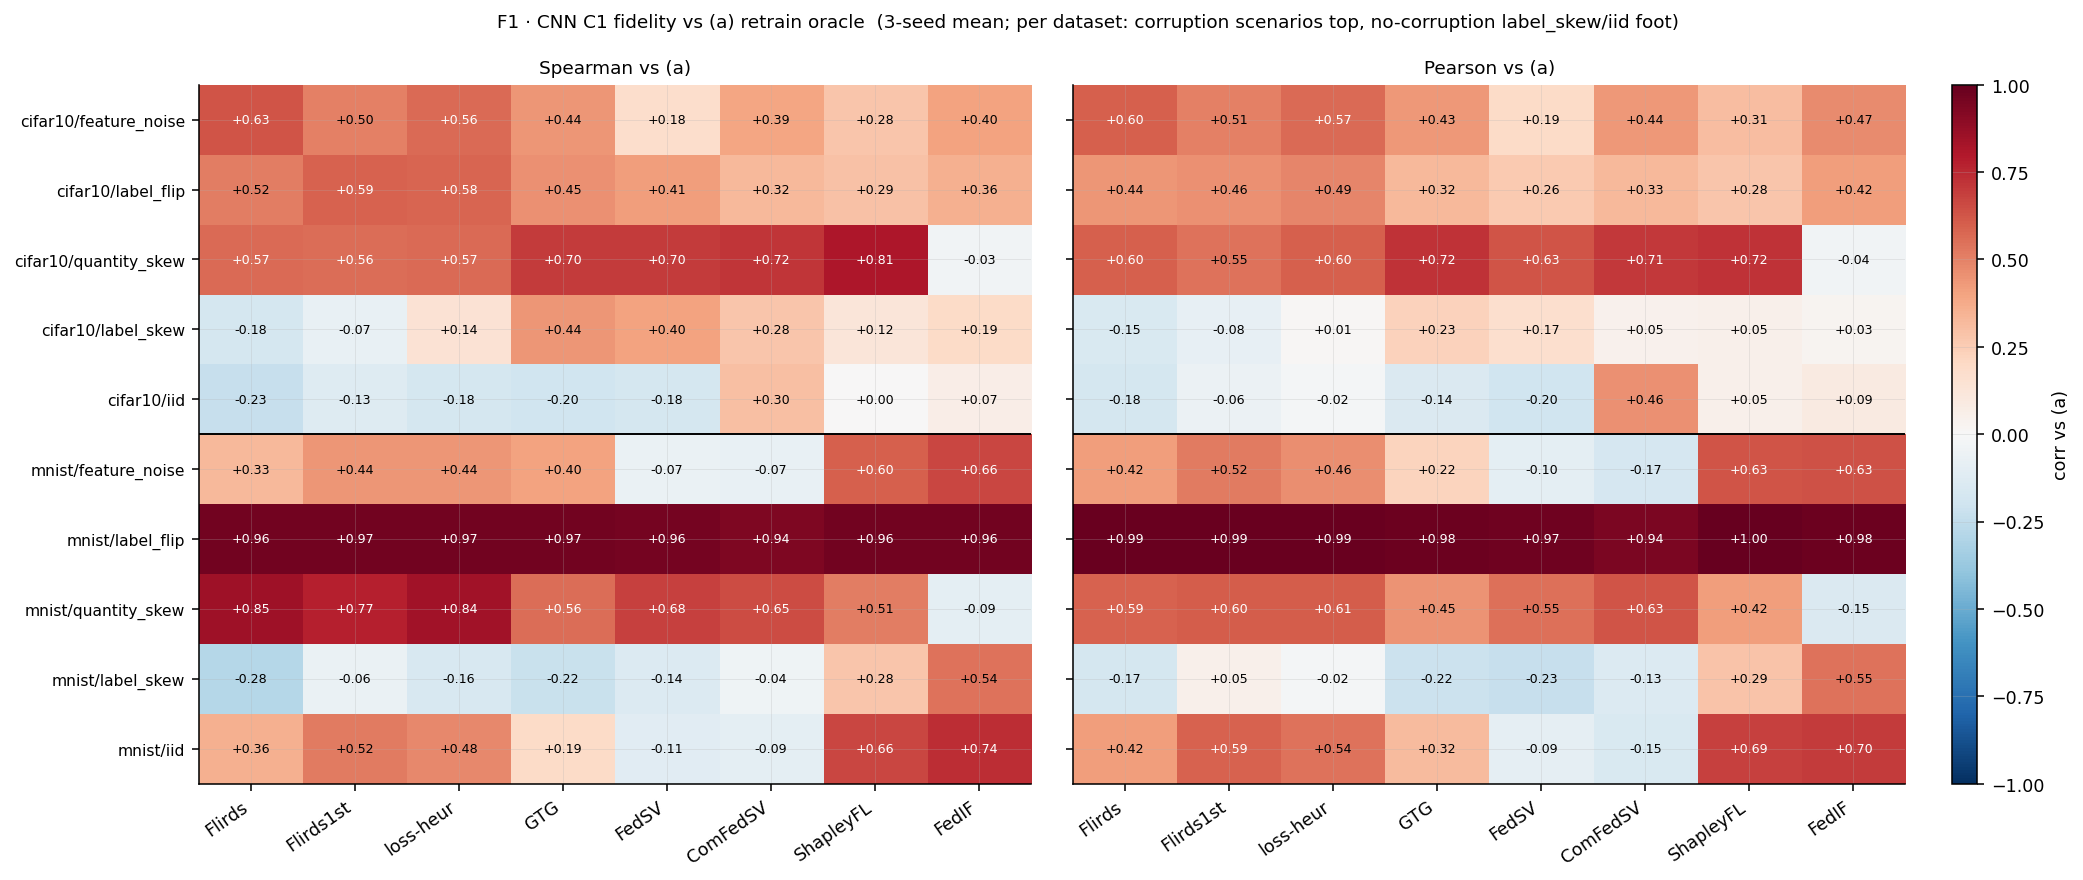
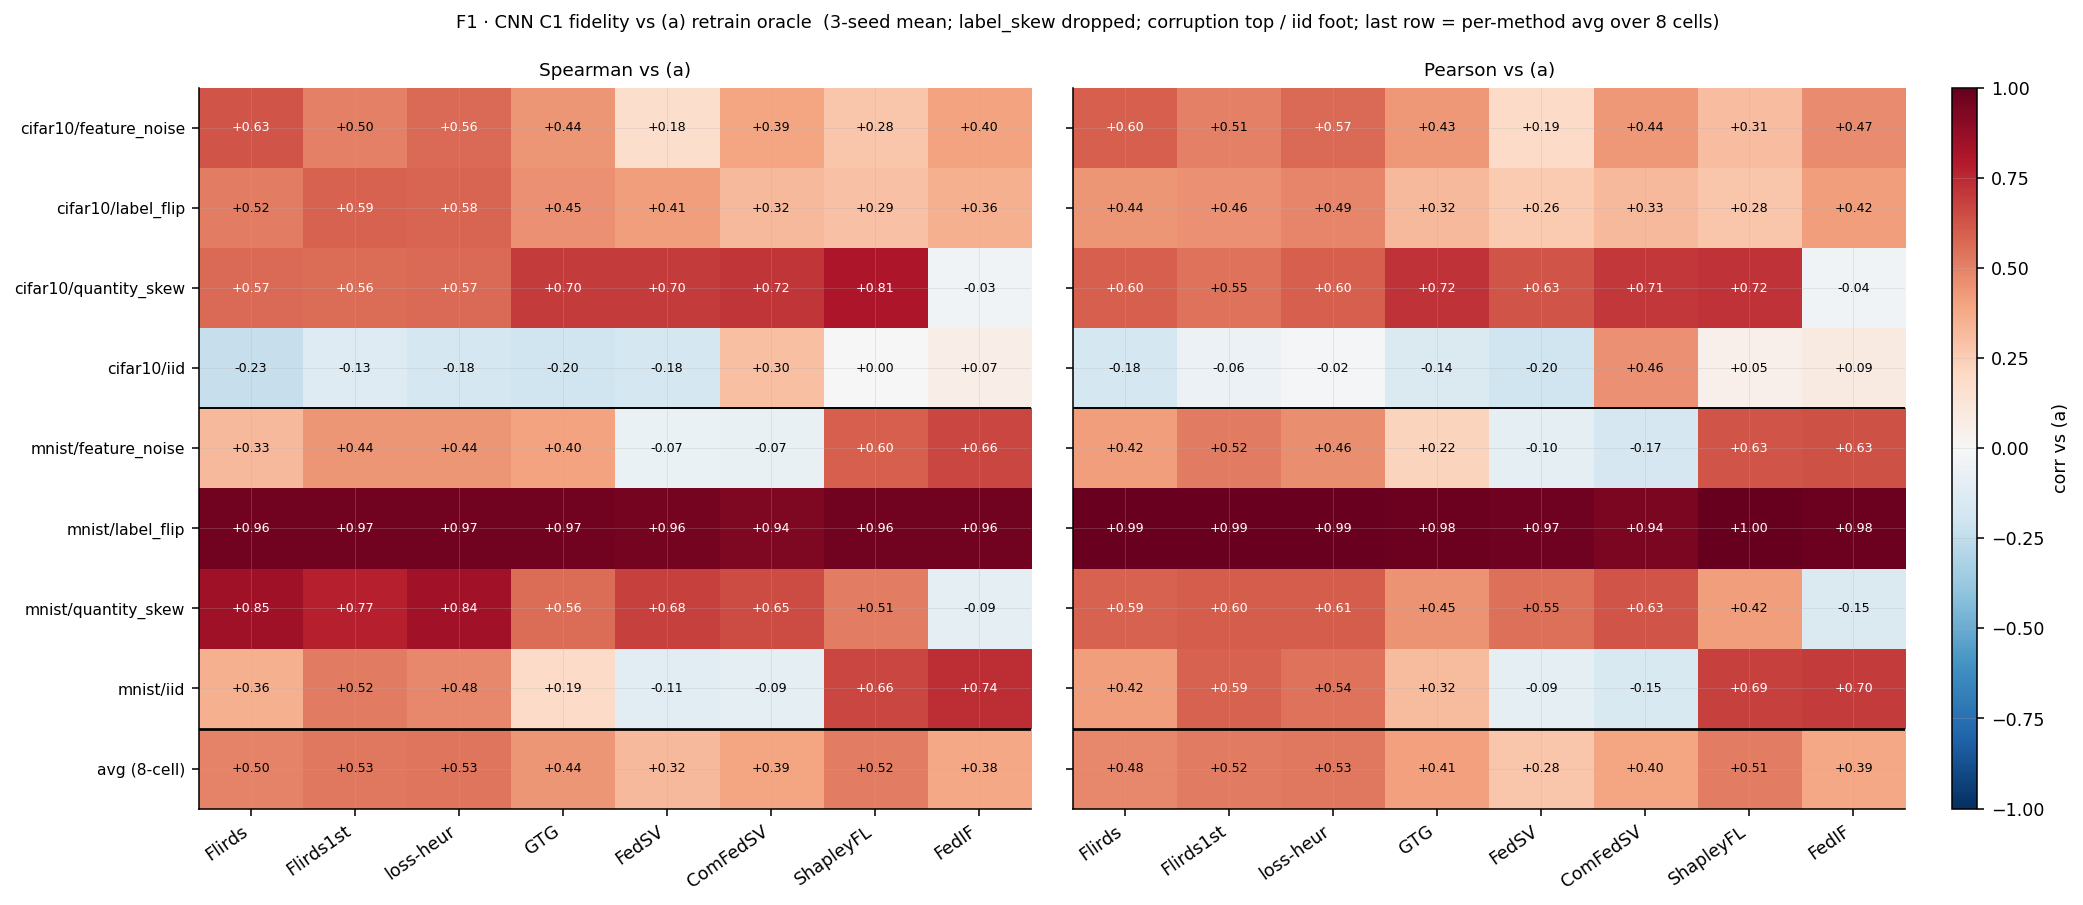
docs(paper): T2 §5.2 CNN C1 vs(a) — label_skew 제거 + 방법별 평균 행 추가
Yonghee 지시:
- label_skew 2행(cifar10·mnist) 삭제 → 8칸(cifar10·mnist × {feature_noise,label_flip,
  quantity_skew,iid}). 표·F1 figure 동일 적용.
- 방법별 **평균 행** 추가(Spearman·Pearson 각 표): 평균(8칸) + (참고) iid 제외 6칸.
  ⚠ iid(오염0) 희석 주의 명시 — 8칸 평균은 same-game이 깎여 renorm과 붙어 보이나(Flirds Sp
  +0.50 ≈ ShapleyFL +0.52), iid 제외 6칸이 실제 서열(same-game 0.64~0.66 최상).
- F1 = 8칸 + `avg (8-cell)` 행(분리선) 2-panel 재생성.

값은 track_c/fidelity.csv에서 label_skew 제외 후 재계산·검증. runs/ 읽기전용·paper/ 무수정·로컬 커밋만.

diff --git a/research-wiki/survey/flirds-paper-results-overview-figs/make_figures.py b/research-wiki/survey/flirds-paper-results-overview-figs/make_figures.py
@@ -85,8 +85,9 @@ def f1():
         print("  [skip] F1: missing track_c/fidelity.csv"); return False
     df = pd.read_csv(csv)
     df = df[~df["method"].isin(EXCLUDE)]
-    # per dataset block: corruption scenarios first (signal), no-corruption last
-    scen_order = ["feature_noise", "label_flip", "quantity_skew", "label_skew", "iid"]
+    df = df[df["scenario"] != "label_skew"]              # dropped per Yonghee 07-23
+    # per dataset block: corruption scenarios first (signal), iid control last
+    scen_order = ["feature_noise", "label_flip", "quantity_skew", "iid"]
     rows = ([("cifar10", s) for s in scen_order] + [("mnist", s) for s in scen_order])
     M = [m for m in M8 if m in df["method"].unique()]
 
@@ -99,29 +100,32 @@ def f1():
                     g[i, j] = piv.loc[(d, s, m)]
                 except KeyError:
                     pass
-        return g
+        avg = np.nanmean(g, axis=0, keepdims=True)        # per-method mean over 8 cells
+        return np.vstack([g, avg])
 
-    fig, axes = plt.subplots(1, 2, figsize=(14.6, 6.4), sharey=True)
+    ylabels = [f"{d}/{s}" for d, s in rows] + ["avg (8-cell)"]
+    fig, axes = plt.subplots(1, 2, figsize=(14.6, 6.6), sharey=True)
     im = None
     for ax, (col, name) in zip(axes, [("spearman_a", "Spearman"), ("pearson_a", "Pearson")]):
         grid = build(col)
         im = ax.imshow(grid, cmap="RdBu_r", vmin=-1, vmax=1, aspect="auto")
         ax.set_xticks(range(len(M))); ax.set_xticklabels(M, rotation=35, ha="right")
         ax.axhline(len(scen_order) - 0.5, color="k", lw=1.0)   # cifar10 | mnist split
-        for i in range(len(rows)):
+        ax.axhline(len(rows) - 0.5, color="k", lw=1.4)         # data | avg split
+        for i in range(grid.shape[0]):
             for j in range(len(M)):
                 v = grid[i, j]
                 if not np.isnan(v):
                     ax.text(j, i, f"{v:+.2f}", ha="center", va="center", fontsize=6.5,
                             color="white" if abs(v) > 0.55 else "black")
         ax.set_title(f"{name} vs (a)", fontsize=9.5)
-    axes[0].set_yticks(range(len(rows)))
-    axes[0].set_yticklabels([f"{d}/{s}" for d, s in rows], fontsize=8)
+    axes[0].set_yticks(range(len(ylabels)))
+    axes[0].set_yticklabels(ylabels, fontsize=8)
     fig.subplots_adjust(left=0.065, right=0.9, top=0.9, bottom=0.12, wspace=0.05)
     cax = fig.add_axes([0.923, 0.12, 0.012, 0.78])
     fig.colorbar(im, cax=cax, label="corr vs (a)")
-    fig.suptitle("F1 · CNN C1 fidelity vs (a) retrain oracle  (3-seed mean; per dataset: "
-                 "corruption scenarios top, no-corruption label_skew/iid foot)", fontsize=9.5)
+    fig.suptitle("F1 · CNN C1 fidelity vs (a) retrain oracle  (3-seed mean; label_skew dropped; "
+                 "corruption top / iid foot; last row = per-method avg over 8 cells)", fontsize=9.2)
     return save(fig, "f1_cnn_c1_vs_a_heatmap.png", tight=False)
 
 

diff --git a/research-wiki/survey/flirds-paper-results-overview.md b/research-wiki/survey/flirds-paper-results-overview.md
@@ -108,11 +108,11 @@ tags: [flirds, paper, results, dashboard]
 **LLM gsm5 (신설, 주표) — dual (a)+(b), clean·noisy** ⬚ · **LLM silo5 (a)-leg (비IID 보조)** ⬚
 - 채움 = `runs/track_d/rundirs/gsm5_*`(L8 신설) · `runs/track_d/rundirs/1B_silo5_*_aleg`(L8). gsm5 = 주무대와 데이터·위협·오염비율·val·하이퍼 동일, N=5 full·R=30만 축소("라운드-cohort 축소판").
 
-**CNN C1 시나리오별 vs (a) retrain oracle** ● (3-seed 평균; 전 10칸 = cifar10·mnist × 5 시나리오, 전 8 방법)
+**CNN C1 시나리오별 vs (a) retrain oracle** ● (3-seed 평균; 8칸 = cifar10·mnist × 4 시나리오 · 전 8 방법 · **label_skew 제외**)
 
-> **오염 구조 (칸마다 신호가 다른 이유 + 데이터셋별 오염군)**: C1의 오염은 **클라 index 사다리** `_pair_ladder`(pair p → 5p%, N=10 → **0/0/5/5/10/10/15/15/20/20%**)이고, **`label_flip`·`feature_noise` 두 시나리오에만** 적용 = strmain류 **per-client 강도 변조**(클라마다 오염 dose가 다름). **`iid`·`label_skew`·`quantity_skew`는 오염 0**(순수 파티션 이질성)이라 vs (a) 신호가 약한 **신호-부재 칸**. ⚠ **오염 사다리는 데이터셋·seed 무관 동일**(client index로만 결정) → cifar10↔mnist의 값 차이는 *오염군이 달라서가 아니라* 과제 난이도 차이다(아래 읽기 iii).
+> **오염 구조 (칸마다 신호가 다른 이유 + 데이터셋별 오염군)**: C1의 오염은 **클라 index 사다리** `_pair_ladder`(pair p → 5p%, N=10 → **0/0/5/5/10/10/15/15/20/20%**)로 **`label_flip`·`feature_noise`에만** 적용 = strmain류 **per-client 강도 변조**(클라마다 dose가 다름). `quantity_skew`=크기 이질성, **`iid`=오염0 신호-부재 대조군**. *(label_skew는 오염0 + (a)-게임 축퇴로 정보량 낮아 07-23 삭제.)* ⚠ **오염 사다리는 데이터셋·seed 무관 동일**(client index로만 결정) → cifar10↔mnist 값 차이는 *오염군이 달라서가 아니라* 과제 난이도(아래 읽기 iii).
 
-**Spearman vs (a)** (전 10칸; 신호-강 위 / 신호-부재 아래)
+**Spearman vs (a)** (신호-강 위 / iid 아래 / 방법별 평균)
 
 | dataset/scenario | Flirds | Flirds-1st | loss-heur | GTG | FedSV | ComFedSV | ShapleyFL | FedIF |
 |---|---|---|---|---|---|---|---|---|
@@ -122,12 +122,12 @@ tags: [flirds, paper, results, dashboard]
 | mnist / feature_noise | +0.33 | +0.44 | +0.44 | +0.40 | -0.07 | -0.07 | +0.60 | +0.66 |
 | mnist / label_flip | **+0.96** | +0.97 | +0.97 | +0.97 | +0.96 | +0.94 | +0.96 | +0.96 |
 | mnist / quantity_skew | **+0.85** | +0.77 | +0.84 | +0.56 | +0.68 | +0.65 | +0.51 | -0.09 |
-| cifar10 / label_skew *(오염0)* | -0.18 | -0.07 | +0.14 | +0.44 | +0.40 | +0.28 | +0.12 | +0.19 |
 | cifar10 / iid *(오염0)* | -0.23 | -0.13 | -0.18 | -0.20 | -0.18 | +0.30 | +0.00 | +0.07 |
-| mnist / label_skew *(오염0)* | -0.28 | -0.06 | -0.16 | -0.22 | -0.14 | -0.04 | +0.28 | +0.54 |
 | mnist / iid *(오염0)* | +0.36 | +0.52 | +0.48 | +0.19 | -0.11 | -0.09 | +0.66 | +0.74 |
+| **평균 (8칸)** | **+0.50** | **+0.53** | **+0.53** | **+0.44** | **+0.32** | **+0.39** | **+0.52** | **+0.38** |
+| _평균 (iid 제외 6칸)_ | _+0.64_ | _+0.64_ | _+0.66_ | _+0.59_ | _+0.48_ | _+0.49_ | _+0.58_ | _+0.38_ |
 
-**Pearson vs (a)** (전 10칸; 같은 순서)
+**Pearson vs (a)** (같은 순서)
 
 | dataset/scenario | Flirds | Flirds-1st | loss-heur | GTG | FedSV | ComFedSV | ShapleyFL | FedIF |
 |---|---|---|---|---|---|---|---|---|
@@ -137,13 +137,13 @@ tags: [flirds, paper, results, dashboard]
 | mnist / feature_noise | +0.42 | +0.52 | +0.46 | +0.22 | -0.10 | -0.17 | +0.63 | +0.63 |
 | mnist / label_flip | +0.99 | +0.99 | +0.99 | +0.98 | +0.97 | +0.94 | **+1.00** | +0.98 |
 | mnist / quantity_skew | +0.59 | +0.60 | +0.61 | +0.45 | +0.55 | +0.63 | +0.42 | -0.15 |
-| cifar10 / label_skew *(오염0)* | -0.15 | -0.08 | +0.01 | +0.23 | +0.17 | +0.05 | +0.05 | +0.03 |
 | cifar10 / iid *(오염0)* | -0.18 | -0.06 | -0.02 | -0.14 | -0.20 | +0.46 | +0.05 | +0.09 |
-| mnist / label_skew *(오염0)* | -0.17 | +0.05 | -0.02 | -0.22 | -0.23 | -0.13 | +0.29 | +0.55 |
 | mnist / iid *(오염0)* | +0.42 | +0.59 | +0.54 | +0.32 | -0.09 | -0.15 | +0.69 | +0.70 |
+| **평균 (8칸)** | **+0.48** | **+0.52** | **+0.53** | **+0.41** | **+0.28** | **+0.40** | **+0.51** | **+0.39** |
+| _평균 (iid 제외 6칸)_ | _+0.61_ | _+0.60_ | _+0.62_ | _+0.52_ | _+0.42_ | _+0.48_ | _+0.56_ | _+0.39_ |
 
-> 읽기: (i) **신호-강 칸(label_flip·feature_noise·quantity_skew)**서 두 게임 수렴 — same-game 3종 1위 2칸(cifar10/fn·mnist/qskew), mnist/label_flip은 전 방법 Sp +0.94~+0.97·Pe +0.94~+1.00 동수렴. (ii) **신호-부재 칸(iid·label_skew, 오염0)**은 대부분 0~음수(파티션 이질성만 있어 (a) 재학습-게임이 순위를 재현 못 함); 이런 칸선 renorm-족이 소폭 우위(cifar10/qskew ShapleyFL Sp +0.81·label_skew GTG +0.44 = (a) 재정규화-게임 심판이 renorm에 유리, 부록 C 각주 T10). (iii) **데이터셋 차 = 난이도**: 같은 오염 사다리인데 mnist/label_flip +0.96 > cifar10/label_flip +0.52 = mnist가 더 분리적(쉬운 과제)이라 오염 신호가 (a)에도 뚜렷 — 오염군이 다른 게 아니다. (iv) **Spearman↔Pearson 정합**(순위·값 수준 대체로 일치; renorm-유리 칸서만 소폭 갈림). **출처**: `runs/track_c/fidelity.csv`(`spearman_a`/`pearson_a`, (dataset,scenario,method) 3-seed 평균).
-> ![[flirds-paper-results-overview-figs/f1_cnn_c1_vs_a_heatmap.png]] *(좌=Spearman·우=Pearson 2-panel)*
+> 읽기: (i) **신호-강 칸(label_flip·feature_noise·quantity_skew)**서 두 게임 수렴 — same-game 3종 1위 2칸(cifar10/fn·mnist/qskew), mnist/label_flip은 전 방법 Sp +0.94~+0.97·Pe +0.94~+1.00 동수렴. (ii) **평균 읽는 법 — iid 희석 주의**: iid(오염0)은 대부분 0~음수(파티션만 있어 (a) 재학습-게임이 순위 재현 못 함)라 **평균(8칸)에 iid가 섞이면 same-game이 깎여 renorm과 붙어 보인다**(Flirds Sp +0.50 ≈ ShapleyFL +0.52). **실제 서열은 iid 제외 6칸**: same-game **0.64~0.66** > GTG 0.59 > ShapleyFL 0.58 > FedSV/ComFedSV 0.48~0.49 > FedIF 0.38. renorm-족이 신호-부재/크기 칸서 부분 우위(cifar10/qskew ShapleyFL Sp +0.81 = (a) 재정규화-게임 심판이 renorm 유리, 부록 C 각주 T10). (iii) **데이터셋 차 = 난이도**: 같은 오염 사다리인데 mnist/label_flip +0.96 > cifar10/label_flip +0.52 = mnist가 더 분리적(쉬운 과제)이라 오염 신호가 (a)에도 뚜렷 — 오염군이 다른 게 아니다. (iv) **Spearman↔Pearson 정합**(renorm-유리 칸서만 소폭 갈림). **출처**: `runs/track_c/fidelity.csv`(`spearman_a`/`pearson_a`, (dataset,scenario,method) 3-seed 평균, label_skew 제외).
+> ![[flirds-paper-results-overview-figs/f1_cnn_c1_vs_a_heatmap.png]] *(좌=Spearman·우=Pearson 2-panel; label_skew 제외 8칸 + 방법별 평균 행)*
 
 ---
 
